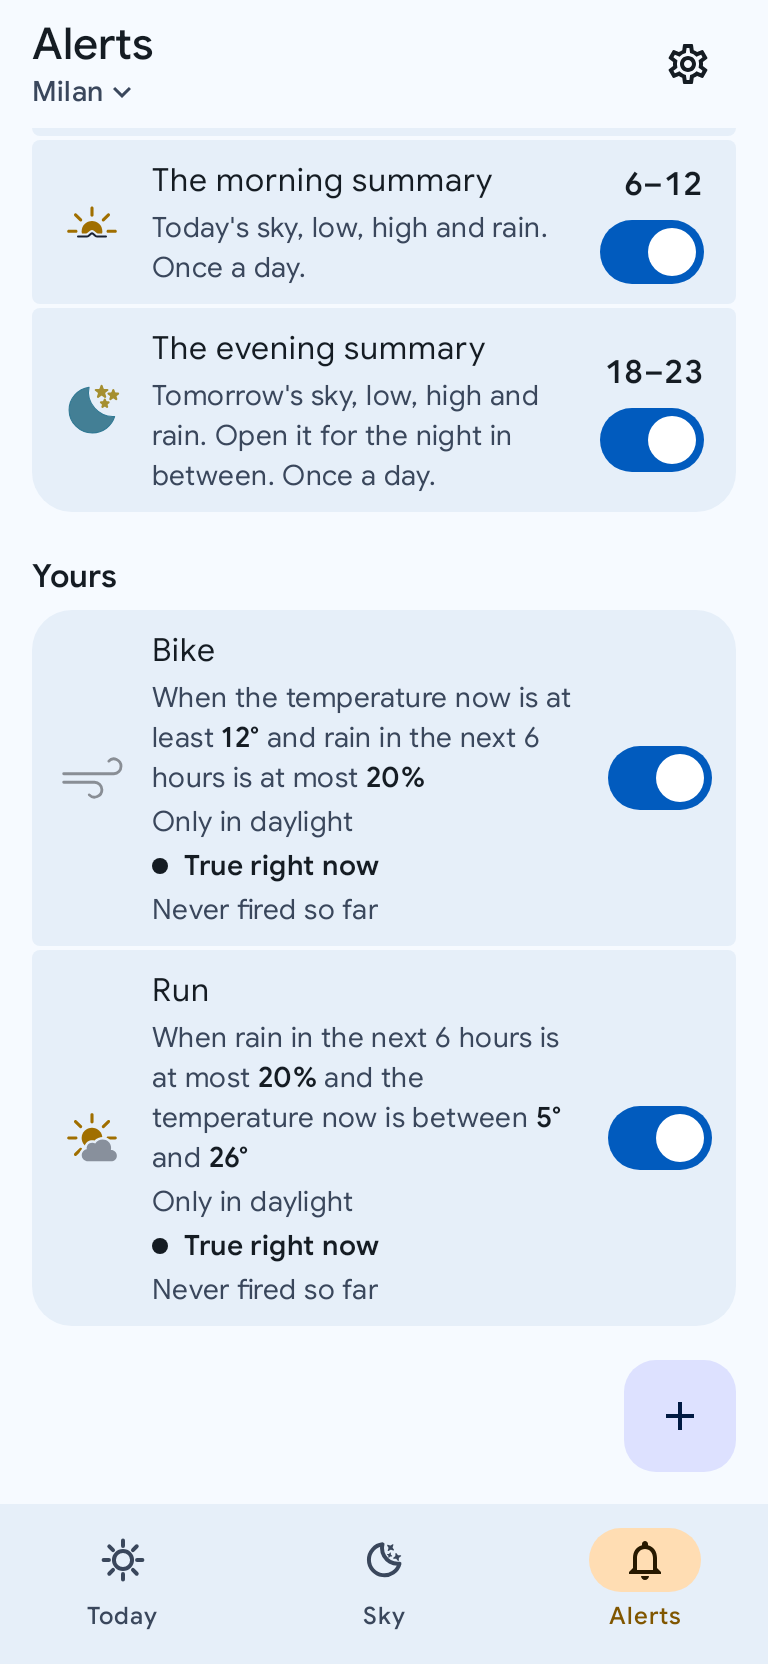
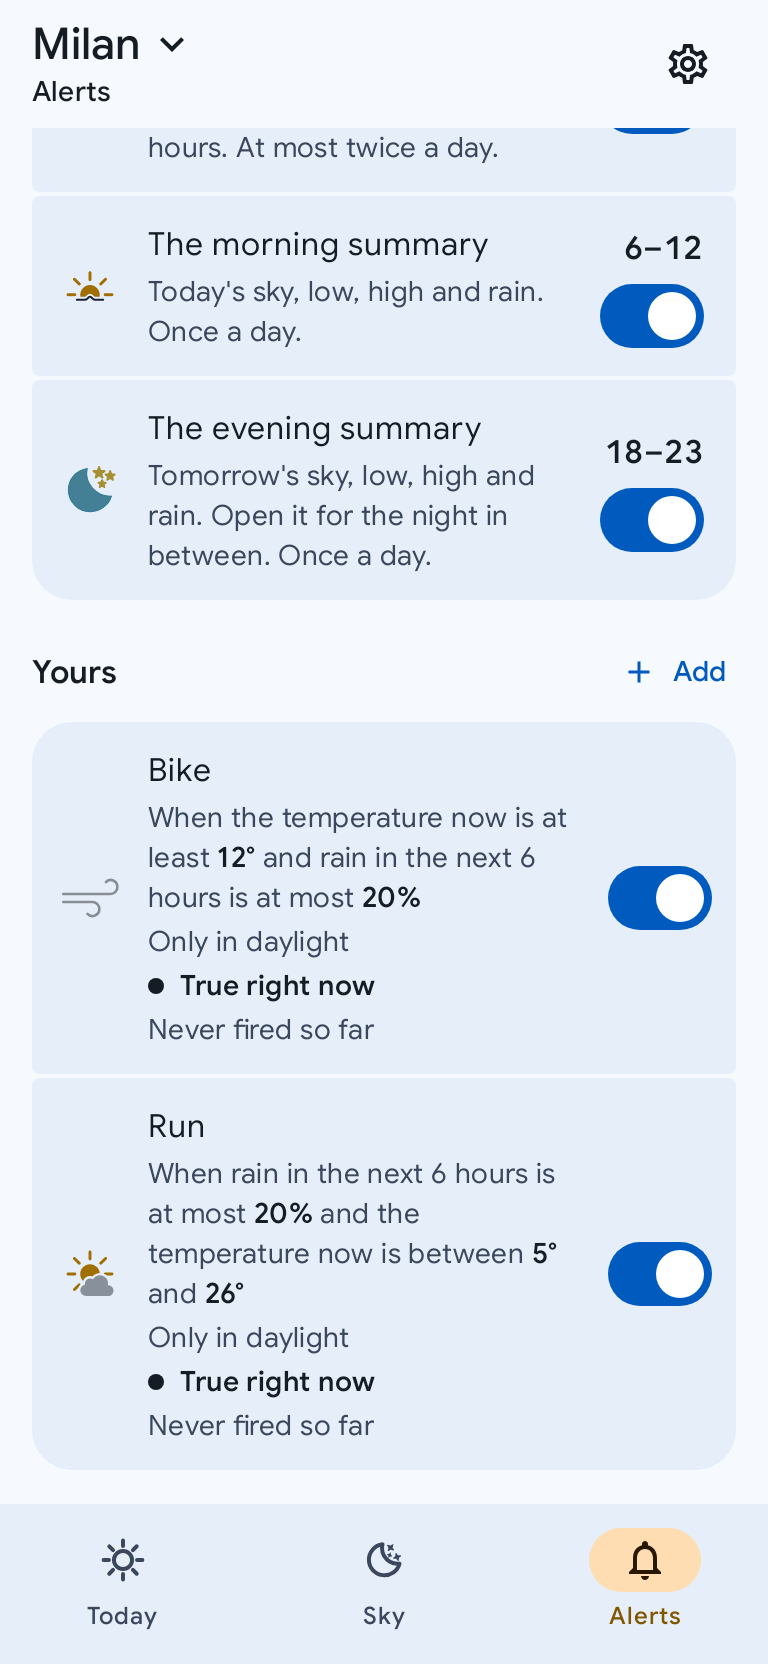
The Alerts review: its two pictures, drawn on a runner, and the log
- alerts.png and alerts-yours.png regenerated from the branch by the
  README screenshots workflow and looked at: the place leads the
  header, «Add» stands on the line of «Yours», 24dp over a title and
  12 under it. The other twelve pictures of the screens came out byte
  for byte as committed; the two of the widgets differ on the runner
  as they do on any machine in another zone (an open box) and stay as
  on main.
- The README's two alt texts say what the pictures now show.
- PLANNING: the review's section, and the boxes it opens.

diff --git a/PLANNING.md b/PLANNING.md
@@ -248,6 +248,19 @@ alla sezione del registro da cui nasce, e si chiude qui, con quella che la chiud
   Chiusa il 12 nov 2026 con tutte e due, ognuna dove è vera: la riga dice la distanza in lune
   piene, le pagine tengono i gradi con cui definiscono un crepuscolo, e DESIGN §8.8 lo scrive
   (registro, «La coda della Fase 16, i gradi, e le prove del 16.11»).
+- [ ] **La revisione di Avvisi sul telefono** (registro, «Avvisi come Oggi e Cielo: la revisione
+  della schermata», «Cosa conferma solo il telefono»): l'intestazione nel passaggio fra le tre
+  schede, «Aggiungi» accanto a «I tuoi» anche con il carattere grande, le righe con la loro
+  aria nuova, «I tuoi» vuoto nel suo segmento, TalkBack sugli interruttori di Avvisi e di
+  Impostazioni, la striscia del giorno al 200%, il foglio «Un valore nel messaggio».
+- [ ] **Il ritmo delle sezioni del Cielo** (stessa sezione, «Trovato e non toccato»): 17dp sopra
+  un titolo e 5 sotto, dove Oggi e Avvisi hanno i 24 e 12 di DESIGN §8.0. Proposta, non decisa:
+  `SkySectionTitle` sui numeri di Oggi, e le due immagini del Cielo rigenerate.
+- [ ] **La barra di Avvisi quando la risposta è scorsa via** (stessa sezione, «Proposte, non
+  decise»; DESIGN §13, voce 6): il segno e la parola del livello mentre un'allerta è in vigore.
+  Proposta, non decisa.
+- [ ] **Le fasce di Avvisi con l'orologio a 12 ore** (stessa sezione, «Trovato e non toccato»;
+  DESIGN §13, voce 7): «18–23» accanto a «alle 2:34 PM». Proposta, non decisa.
 - [x] **14.1** La sonda del provider, il quarto d'ora dove è calcolato, le regole (Fase 14). Fatto il 27 ott 2026 (archivio 07, «14.1»).
 - [x] **14.2** La nebbia senza la visibilità di ICON: la misura. Fatto il 27 ott 2026 (archivio 07, «14.2»): la regola scelta entra con 14.3, subito.
 - [x] **14.3** La nebbia senza la visibilità di ICON: il codice, e il tile. Fatto il 27 ott 2026 (archivio 07, «14.3»): la regola di 14.2 è nel motore e vale da oggi, un mese prima di DWD.
@@ -633,3 +646,188 @@ locale.
 Casella «La coda della Fase 16 sul telefono»: un tocco accanto ai due pulsanti con un foglio
 aperto; un dito che si muove sul pannello dell'ora; la riga di una congiunzione in lune piene,
 quando il calendario ne ha una; la luna nel distintivo di un luogo senza coordinate.
+
+## Avvisi come Oggi e Cielo: la revisione della schermata (committente, 12 nov 2026)
+
+Unita la PR #164, il committente in una nuova chat: «Fai una review della schermata Avvisi.
+Allinea grafica, tipografia e layout alle schermate Oggi e Cielo già sottoposte a review in
+modo da mantenere omogeneità e coerenza tra le schermate. Segui le linee guida Google Material3
+riguardo a UI/UX, layout, grafica e tipografia. Verifica anche se ci sono errori, se ci sono
+suggerimenti che vorresti applicare o nuove implementazioni da suggerire. Se puoi, e non vedi
+controindicazioni, alla fine non compilare qui perché mi tiene la macchina impegnata per circa
+30 minuti: lascia partire la CI su GitHub e verifica da lì se è verde o rossa».
+
+Una PR sola, dal `main` aggiornato (3b6f11e5), ramo `claude/alerts-review`. **Niente è stato
+compilato, lanciato o disegnato in locale, per richiesta**: la CI ha compilato e lanciato i
+test, e le immagini del README le ha disegnate un runner (qui sotto, punto 12).
+
+### Come è stata fatta
+
+- **Letta tutta**: `AlertsScreen.kt` (2 680 righe), `AlertsViewModel`, `NextWindow`,
+  `AlertChannels`, le parti di `RuleText` che la pagina chiama; e di Oggi e del Cielo quel che
+  le loro revisioni hanno lasciato (`PlaceHeader`, `SectionTitle`, `TimelineRow`,
+  `SkySectionTitle`, il pulsante «Aggiungi»), con DESIGN §6, §8.0, §8.1b, §8.9b, §8.12.
+- **Misurata sulle immagini del README**, che sono a 384dp e due pixel per dp (le distanze
+  lette sull'immagine, al dp): `alerts.png` e
+  `alerts-yours.png` accanto a `today-day.png`, `sky-tonight.png` e `sky-ahead.png`.
+
+| | Oggi | Cielo | Avvisi prima | Avvisi ora |
+|---|---|---|---|---|
+| La prima riga dell'intestazione | il luogo, `titleLarge` | il luogo, `titleLarge` | «Avvisi», `titleLarge` | il luogo, `titleLarge` |
+| La seconda | il giorno e l'ora | la notte | il luogo, `titleSmall` | «Avvisi», `labelLarge` |
+| Sopra un titolo di sezione | 24 | 17 | 20 (24 sotto l'hero) | 24 |
+| Sotto un titolo di sezione | 12 | 5 | 8 | 12 |
+| Aria sopra e sotto in una riga | 12 | 12 | 8 | 12 |
+| Il disegno di una riga | 34 | 34 | 36 | 34 |
+| L'azione della pagina | — | «+ Aggiungi» nel titolo | pulsante flottante | «+ Aggiungi» nel titolo |
+
+### Cosa è cambiato
+
+1. **Il luogo apre l'intestazione**, come su Oggi e sul Cielo: la riga del luogo di Oggi
+   (`PlaceHeader`) sulla carta, «Milano ⌄» e sotto «Avvisi», un solo pulsante per TalkBack
+   («Milano, Avvisi», azione «Cambia luogo»). Il blocco è alto gli stessi 48dp: sotto non si
+   sposta niente. Senza luogo resta il `TabHeader` con il solo nome della scheda, come sul Cielo.
+2. **«Aggiungi» nel titolo di «I tuoi»**, al posto del pulsante flottante: lo stesso pulsante
+   del Cielo (`TitleAction`, ora in `ui/components` e usato da tutti e due), la stessa parola,
+   «Nuovo avviso» per chi ascolta. Il foglio che apre porta «Nuovo avviso» in testa. Il
+   margine sotto l'ultima riga torna 16dp (era 88, per il pulsante).
+3. **Un ritmo, quello di Oggi** (DESIGN §8.0): 24 sopra un titolo e 12 sotto. I titoli sono
+   il `SectionTitle` di Oggi, che ora accetta un'azione; `GroupTitle`, la copia di Avvisi con
+   i suoi numeri, non c'è più.
+4. **Le righe come quelle dell'agenda**: 12dp sopra e sotto (`ListRow.Vertical`, era 8) e il
+   disegno al gradino dell'agenda (`WeatherIconSize.Timeline`, 34dp; era un 36 solo suo).
+   `TimelineRow` legge ora il 12 da `ListRow`: un numero solo per le tre schede.
+5. **«I tuoi» vuoto è un segmento**: la frase stava nuda sulla carta sotto il titolo, l'unico
+   contenuto di una sezione fuori da un contenitore (§8.0). Dice ora «…: «Aggiungi» parte da
+   un'idea o da zero».
+6. **Una riga con l'interruttore dice se è accesa** (errore): `toggleable` al posto di
+   `clickable` con il ruolo dell'interruttore, sulle cinque righe di Avvisi e sulle righe di
+   Impostazioni. L'interruttore disegnato non ha stato (`onCheckedChange = null`), e la riga
+   era per TalkBack un interruttore che non diceva mai se era acceso.
+7. **L'interruttore di un avviso tuo porta il suo nome** (errore): è un bersaglio a parte
+   dalla card, e da solo era «acceso, interruttore» una volta per avviso.
+8. **La striscia del giorno è alta quanto le sue ore** (errore): il disegno teneva 14dp per
+   le ore sotto la traccia qualunque fosse il carattere; a 200% sono 32dp, disegnate 8dp dentro
+   la frase delle ore silenziose.
+9. **«Un valore nel messaggio» è un foglio a gruppi**, quelli di «Cosa guardare», dopo i due
+   valori dell'avviso stesso: era una finestra di una quarantina di righe nell'ordine del
+   registro, la lista che il 15.7 aveva tolto al selettore della variabile e lasciato qui.
+10. **Via il codice senza chi lo chiama**: `PaneBlocks.firstInView` e la misura del primo
+    blocco di sinistra servivano solo all'etichetta del pulsante flottante.
+11. **I documenti**: DESIGN §6, §8.1b, §8.9b («In Today's shape»), §8.12b, §8.12c e due voci
+    in §13; VISION §5.4; la guida (due frasi che dicevano «Nuovo avviso, il pulsante in
+    basso»); CHANGELOG; i due testi alternativi del README.
+12. **Le immagini del README disegnate su un runner**, e le due di Avvisi rigenerate così:
+    `.github/workflows/readme-screenshots.yml` lancia `ReadmeScreenshots` con
+    `-PupdateScreenshots` e lascia `docs/screenshots/*.png` come artefatto; non committa
+    niente. Parte a mano dalla scheda Actions, su qualunque ramo, e a un push che tocca il
+    file stesso (mai su `main`), perché un workflow si può lanciare a mano solo quando il
+    ramo di default lo ha già.
+
+### Decisioni e deviazioni
+
+1. **L'intestazione cambia una decisione della Fase 16.** Archivio 11, «Fase 16 — Cielo: la
+   pagina come Oggi e il cielo da esplorare», «Gli step», 16.1: «il `TabHeader` resta ad
+   Avvisi». Lì era una nota a margine del lavoro sul Cielo, non una scelta su Avvisi; ora che
+   la richiesta è l'omogeneità delle tre schede, l'intestazione è la differenza che si vede per
+   prima: il luogo cambiava riga e misura alla terza scheda. Avvisi non ha un cielo su cui
+   stendere la riga, quindi sta sulla carta, nell'inchiostro della pagina. **La seconda riga è
+   il nome della scheda**: Oggi lì dice il giorno, il Cielo la notte, cioè di che cosa parla la
+   pagina. Tornare indietro è un blocco in `AlertsScreen`.
+2. **Il pulsante cambia forma, non la decisione del 14 ott 2026** (archivio 05, «Avvisi:
+   «Nuovo avviso» è l'unico ingresso»): resta l'unico ingresso, e al tetto sparisce con la
+   frase che dice perché. Era flottante «come quello del Cielo», che dal 16.2 è nel titolo per
+   una ragione che qui vale di più: il pulsante stava sopra la colonna degli interruttori.
+3. **«Aggiungi», non «Nuovo avviso», sul pulsante.** Una parola sola regge anche al 200% di
+   carattere accanto a «I tuoi» (con «Nuovo avviso», a 360dp, al titolo non resterebbe una riga intera: un conto sulle larghezze, non una misura), ed è la
+   stessa del Cielo nello stesso posto. Il nome intero resta a TalkBack e in testa al foglio.
+4. **La nota dell'età sotto il titolo, quando c'è il pulsante.** «Aggiornato 3 ore fa» stava
+   in fondo alla riga del titolo; con il pulsante accanto, a un carattere grande al titolo
+   restavano pochi dp. Solo nel titolo con un'azione: i titoli di Oggi non cambiano.
+5. **12 e 34 cambiano il 15.7** (archivio 09, «15.7 — Le righe come il Cielo, l'ora relativa,
+   «Cosa guardare»»): lì 8dp e 36dp erano le misure del Cielo di allora e un gradino scelto
+   contro un Cielo a 51. Il Cielo ha preso la riga dell'agenda con il 16.2.
+6. **Impostazioni toccata per un rigo**: lo stesso difetto dell'interruttore, nella stessa
+   forma. Lasciarlo lì sapendolo non era una scelta.
+7. **Quel che di Material 3 è stato guardato e lasciato com'è**: i due chip di «Avvisami da»
+   (una scelta fra due valori; i chip filtro a scelta singola sono ammessi e sono la forma di
+   «In che orari» e «Dove» nell'editor); lo slider della soglia e i pulsanti radio del
+   confronto in una finestra; lo snackbar lungo con «Annulla»; i bersagli da 48dp. L'hero resta
+   una card: la pagina non ha un cielo da stendere fino al bordo.
+8. **Le ore sopra l'interruttore restano `titleMedium`.** Sul Cielo e su Oggi l'ora è ora in
+   una colonna all'inizio della riga, `labelLarge` e quieta; qui è una fascia («6–12») e sta
+   sopra il suo interruttore. Spostarla è un disegno nuovo, non un allineamento.
+9. **Un workflow che nessuno aveva chiesto.** La richiesta era di non compilare sulla
+   macchina del committente; la regola del README vuole le immagini rigenerate nella stessa
+   modifica e guardate prima del commit, e una revisione grafica mai disegnata resta una
+   lettura del codice. Le due cose stavano insieme solo disegnando altrove. Il workflow è un
+   file, non tocca la CI che c'è, non scrive nel repository e non parte su `main`; se non
+   serve, si toglie il file. Come la misura degli stati parte a un push che lo tocca; quella
+   committa sul ramo, questo no.
+
+### Trovato e non toccato
+
+- **`widgets.png` e `widget-window.png` escono diverse sul runner** da quelle committate, senza
+  che i widget siano stati toccati: è la casella già aperta («Le immagini dei widget nel README
+  dipendono dal fuso della macchina»). Lasciate com'erano su `main`.
+- **Il ritmo del Cielo non è quello di §8.0.** Sopra «In arrivo» ci sono 17dp e sotto 5,
+  dove Oggi (e ora Avvisi) ha 24 e 12: `SkySectionTitle` spende ancora 16 e 4. Non è la
+  schermata di questa revisione, e cambia due immagini del README. Proposta, casella aperta.
+- **Le ore delle fasce con l'orologio a 12 ore.** «6–12», «15–17», «18–23», le ore sotto la
+  striscia e «Dalle 22 alle 7» sono ore intere di un giorno di ventiquattro, qualunque sia
+  l'orologio del telefono; ogni altra ora della pagina lo segue. DESIGN §13, voce 7.
+- **DESIGN §6 dice ancora `ListItem`** per i momenti del Cielo e le righe di Impostazioni:
+  è vero dei fogli, non più di quelle righe. Corretta la parte di Avvisi soltanto.
+- **Il selettore dell'ora di una fascia** è un `TimePicker` dentro un `AlertDialog`: su uno
+  schermo basso o di lato il quadrante può non starci. Material 3 ha un `TimePickerDialog`
+  che sceglie da sé fra quadrante e campi; non provato, non toccato.
+- **`TabHeader` non riceve più un luogo da nessuna schermata**: la riga del luogo e il suo
+  bersaglio restano nel componente, e li disegna solo `SkyUndoTest`.
+
+### Proposte, non decise
+
+1. **La barra di Avvisi quando la risposta è scorsa via**: su Oggi la barra prende la
+   temperatura, sul Cielo la parola della notte; qui il segno e la parola del livello mentre
+   un'allerta è in vigore, niente in un giorno quieto. DESIGN §13, voce 6.
+2. **Il ritmo del Cielo a 24 e 12**, qui sopra.
+3. **Le fasce nell'orologio del telefono**, qui sopra.
+4. **Lo storico di un avviso**: la card dice solo l'ultima volta che è scattato, e lo storico
+   tiene tre giorni; nell'editor potrebbero stare le ultime volte, con l'ora e il numero.
+
+### Come è stato verificato
+
+- **Non in locale**, come chiesto: né la compilazione, né i test, né lint, né un disegno.
+- **Letto**: il diff riga per riga contro le firme che chiama (`PlaceHeader`, `Segment`,
+  `SectionTitle`, `toggleable`, `RuleVariables.displayId`); ogni simbolo tolto cercato in tutto
+  il repository (`firstInView` e `measureFirstLeft` avevano un solo chiamante, `GroupTitle` e
+  `PlaceholderPickerDialog` solo questo file); i test esistenti che toccano la pagina riletti
+  (`AlertsPlaceTest` prende l'ultimo nodo `isToggleable`, che resta l'interruttore dell'avviso;
+  `ReadmeScreenshots` trova l'intestazione dall'ingranaggio, che `PlaceHeader` ha).
+- **I test, scritti senza lanciarli qui**: `AlertsLikeTodayTest`, nuovo (il luogo apre
+  l'intestazione; «Aggiungi» è nel titolo, sulla sua riga, un bersaglio da 48dp, e apre le
+  idee; 24 sopra e 12 sotto un titolo; una riga pronta è un interruttore acceso e il tocco la
+  spegne; l'interruttore di un avviso porta il suo nome); `AlertsYoursEmptyTest`, adattato al
+  pulsante nel titolo.
+- **La prima CI: rossa per un test, non per il codice.** Ha compilato tutto e, dei 1 188 test
+  dell'app, ne ha fallito uno, dei miei nuovi: «the place leads the header», che voleva la
+  parola «Alerts» assente e la cercava nell'albero non unito, dove resta quel che la
+  descrizione di un blocco sostituisce. L'albero che legge TalkBack è quello unito: lì la
+  cerca ora. Le due misure (24 e 13dp) erano verdi alla prima. **La seconda CI è verde**
+  (8ad3d944): i test di tutti i moduli, lint, l'APK di debug e quello di release.
+- **Le immagini, guardate**: le sedici del README disegnate sul runner dal ramo. Le dodici di
+  Oggi, del Cielo, delle Impostazioni, della guida e della notifica sono **identiche al byte**
+  a quelle committate, quindi quel che è condiviso (`TitleAction`, `SectionTitle`, `ListRow`,
+  `TimelineRow`, `PaneList`) non ha spostato niente fuori da Avvisi. Le due di Avvisi
+  mostrano quel che doveva cambiare: «Milan ⌄» e «Alerts» sotto, «+ Add» sulla riga di
+  «Yours», e sull'immagine 24dp sopra «Official warnings» e «Yours», 12 e 13 sotto.
+- **Mai visto**: il carattere grande, il tema scuro, la pagina larga a due colonne, i fogli,
+  TalkBack. Stanno nella casella del telefono.
+
+### Cosa conferma solo il telefono
+
+Casella «La revisione di Avvisi sul telefono»: l'intestazione nel passaggio fra le tre schede
+(il luogo fermo, la seconda riga che cambia); «Aggiungi» accanto a «I tuoi», anche con il
+carattere grande e con la nota dell'età; le righe con 12dp d'aria e il disegno a 34; «I tuoi»
+vuoto nel suo segmento; TalkBack sulle righe pronte, sugli interruttori degli avvisi e su
+quelli di Impostazioni; la striscia del giorno al 200% di carattere; il foglio «Un valore nel
+messaggio» aperto sopra l'editor, e il valore che finisce dove sta il cursore.

diff --git a/README.md b/README.md
@@ -58,8 +58,8 @@ fetched, and says how old that data is.
     <td align="center"><img src="docs/screenshots/sky-ahead.png" width="250" alt="Under the pinned place row, which carries the night's word beside the place: tomorrow's sunrise in its row, the hour at the start, the bell at the end and its verdict No chance at 86% low cloud; then the calendar ahead, the meteor peaks past the forecast horizon, each with the link that opens the sky of that night"><br><sub><b>The calendar ahead</b>, honestly dated</sub></td>
   </tr>
   <tr>
-    <td align="center"><img src="docs/screenshots/alerts.png" width="250" alt="Alerts: one card at the top with the answer of the official Protezione Civile bulletin for the zone, the window the phone may ring in next and the day of alerts drawn under it, then the switch that follows the bulletin, and the New alert button"><br><sub><b>Alerts</b> and the official bulletin</sub></td>
-    <td align="center"><img src="docs/screenshots/alerts-yours.png" width="250" alt="Your own alerts: two rules made from the ideas, Bike and Run, each written out as its sentence with the thresholds in bold, its hours (only in daylight) and whether it is true right now, with its switch, under the summaries with their hours in a column"><br><sub><b>Your own alerts</b>, written as sentences</sub></td>
+    <td align="center"><img src="docs/screenshots/alerts.png" width="250" alt="Alerts, under the place's name: one card at the top with the answer of the official Protezione Civile bulletin for the zone, the window the phone may ring in next and the day of alerts drawn under it, then the switch that follows the bulletin and the level it starts from"><br><sub><b>Alerts</b> and the official bulletin</sub></td>
+    <td align="center"><img src="docs/screenshots/alerts-yours.png" width="250" alt="Your own alerts: two rules made from the ideas, Bike and Run, each written out as its sentence with the thresholds in bold, its hours (only in daylight) and whether it is true right now, with its switch, under the summaries with their hours in a column and a title that carries Add at its end"><br><sub><b>Your own alerts</b>, written as sentences</sub></td>
     <td align="center"><img src="docs/screenshots/guide.png" width="250" alt="The guide: a tour of the three screens, what each one answers and what it cannot say out loud"><br><sub><b>The guide</b>, in the app</sub></td>
   </tr>
   <tr>
